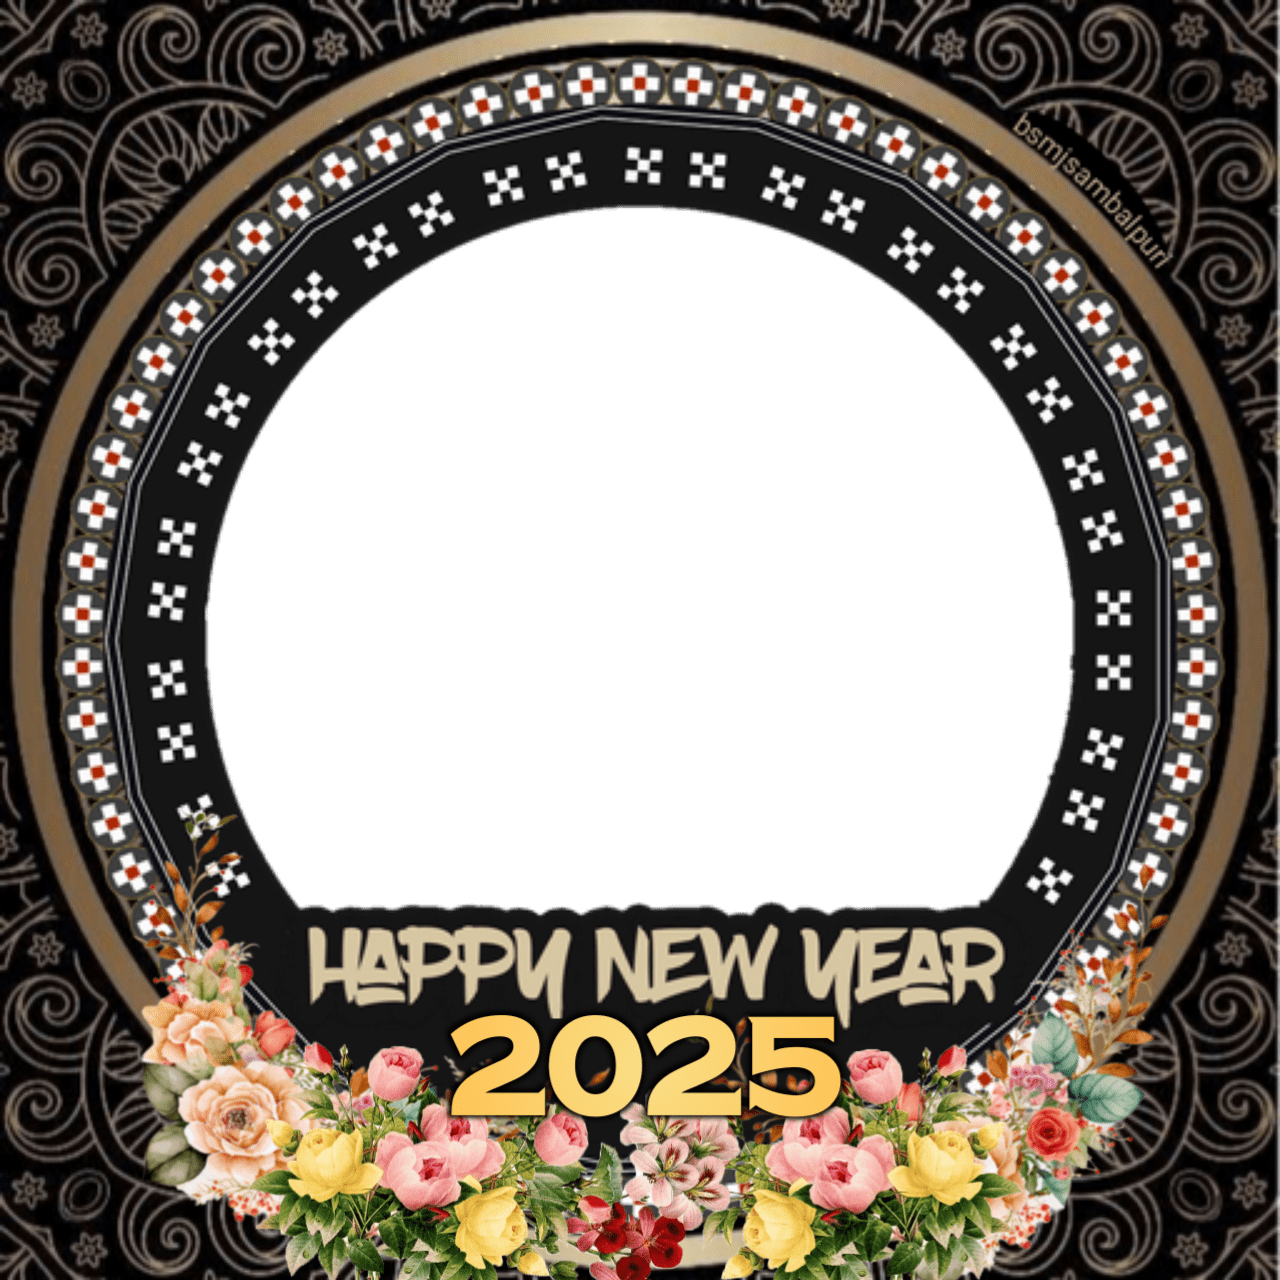
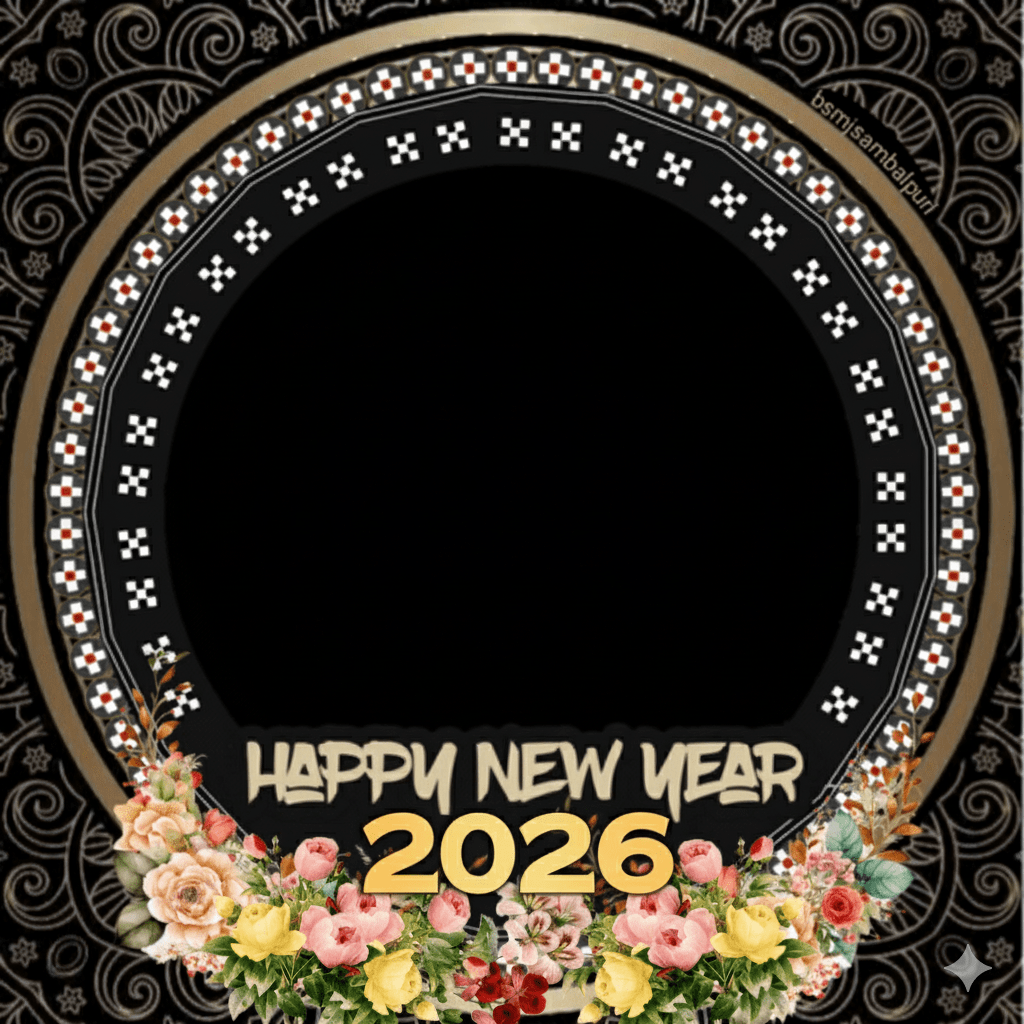
newyear 2026

diff --git a/edit/newyear/frame.html b/edit/newyear/frame.html
@@ -46,7 +46,8 @@ input[type="color"] {
 <br/>
   <b>Select Frame :</b><select id="Style" name="Style" onchange="myFunction1()">
 <option value="https://bsmjsambalpuri.github.io/edit/newyear/newyearFrame.png">Frame 1</option>
-
+<option value="https://bsmjsambalpuri.github.io/edit/newyear/newyearFrame2.png">Frame 2</option>
+<option value="https://bsmjsambalpuri.github.io/edit/newyear/newyearFrame3.png">Frame 3</option>
   </select> 
   
   <br/>
